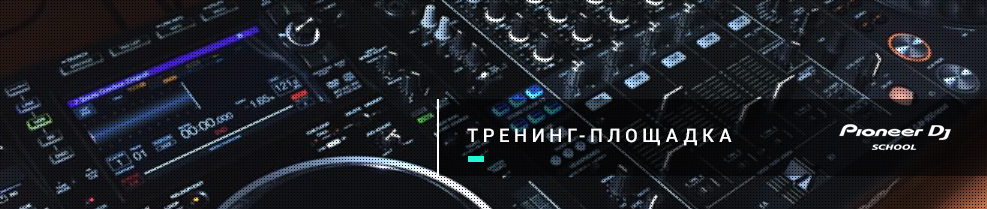
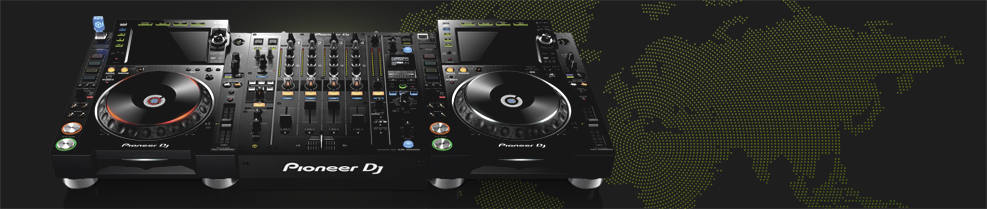
v. 2.1.0 new images for main page

diff --git a/app/templates/html/detail/detailServices.php b/app/templates/html/detail/detailServices.php
@@ -8,27 +8,42 @@
             top: 80px !important;
         }
         .section.section-product-info {
-            margin-top: -220px;
-            margin-bottom: -20px;
+            margin-top: -190px !important;
+            margin-bottom: -50px !important;
         }
+        .hero.hero-compact .head .name {
+            margin-top: -73px;
+        }
+
     }
+
     @media (max-width: 1001px){
         .bg .section {
             margin-top: 0px;
         }
+        .section.section-product-info {
+            margin-bottom: -50px;
+        }
+    }
+    @media (max-width: 767px) and (min-width: 482px) {
+
     }
     @media (max-width: 767px) {
         .section {
             margin-top: -250px;
         }
         .section.section-product-info {
-            margin-top: -220px !important;
-            margin-bottom: -20px;
+            margin-top: -150px;
+            margin-bottom: -50px;
+        }
+        .hero .head .desc {
+            width: 70%;
         }
     }
     .section-product-info {
         background: url(/css/images/bg.png);
         background-size: cover;
+        padding-bottom: 50px;
     }
     .product-combine .product .content-wrap {
         min-height: 90px;
@@ -47,9 +62,7 @@
     .section-product-combine {
         margin-top: -50px;
     }
-    .section-product-combine {
-        margin-top: -80px;
-    }
+
     .hero.hero-compact .btn-holder {
         bottom: 90px;
     }
@@ -57,6 +70,9 @@
 
 <?
     $element = $array['content'][0];
+    if($element['alias'] == "traning"){
+        $element['title'] = "Свободная тренировка";
+    }
     $filter = array("content_id" => $element['id']);
     $images = Element::SelectAll('files', $filter, null, null);
 ?>
@@ -127,7 +143,7 @@
         </div>
     </header>
 </div>
-<div class="section section-product-combine bg-dark-1 color-light">
+<div class="section section-product-combine bg-dark-1 color-light" style="margin-top: -80px;">
     <div class="container product-combine">
         <h2 class="h2 no-line color-light">РЕКОМЕНДУЕМЫЕ КУРСЫ</h2>
 

diff --git a/app/templates/html/detail/detailCourse.php b/app/templates/html/detail/detailCourse.php
@@ -98,8 +98,8 @@
     }
     @media (max-width: 369px) and (min-width: 321px){
         .course-cons ul li:nth-child(1) .cons-label {
-            top: 152px !important;
-            left: 30px !important;
+            top: 145px !important;
+            left: 10px !important;
         }
         .course-cons ul li:nth-child(2) .cons-label {
             top: 46px !important;
@@ -107,15 +107,15 @@
         }
         .course-cons ul li:nth-child(3) .cons-label {
             top: 91px !important;
-            left: 20px !important;
+            left: 3px !important;
         }
         .course-cons ul li:nth-child(4) .cons-label {
             top: 21px !important;
             left: 23px !important;
         }
         .course-cons ul li:nth-child(5) .cons-label {
-            top: 124px !important;
-            left: 12px !important;
+            top: 118px !important;
+            left: 3px !important;
         }
         .course-cons ul li:nth-child(6) .cons-label {
             top: -4px !important;
@@ -221,6 +221,11 @@
             background-size: 50% 50%;
         }
     }
+    @media (max-width: 767px) and (min-width: 482px){
+        .section.section-product-images {
+            margin-top: -150px;
+        }
+    }
     @media (max-width: 767px) {
         .section {
             margin-top: -250px;
@@ -231,6 +236,7 @@
         .hero .btn-holder .btn:first-child {
             margin-top: -40px;
         }
+
     }
     .course-cons .bg {
         max-width: 767px;

diff --git a/app/templates/default/pioneerdj_view.php b/app/templates/default/pioneerdj_view.php
@@ -31,6 +31,7 @@
     <link href="/Bundles/Style/index-v=H4Yv5sjJRgLgqs-CyBthqH_GrqH4LZtmoI-pAHgdUuw1.css" rel="stylesheet"/>
     <script src="//api-maps.yandex.ru/2.0/?load=package.full,package.route,package.geocode&amp;lang=ru-RU" type="text/javascript"></script>
     <style>
+        
         @media (min-width: 551px) and (max-width: 630px){
             .header .topbar .container .logo {
                 margin: 0 130px !important;
